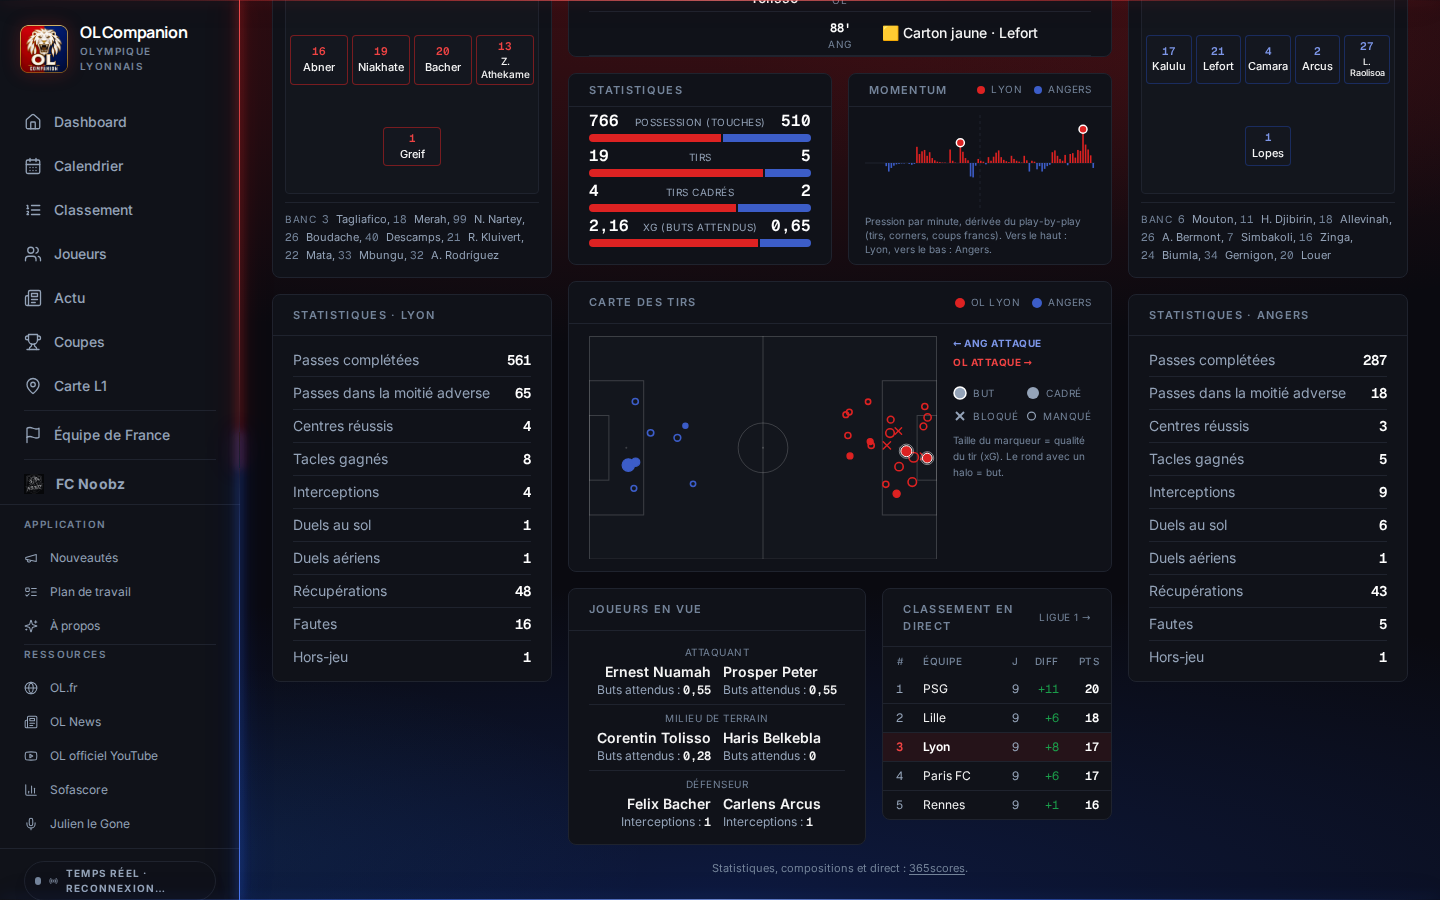
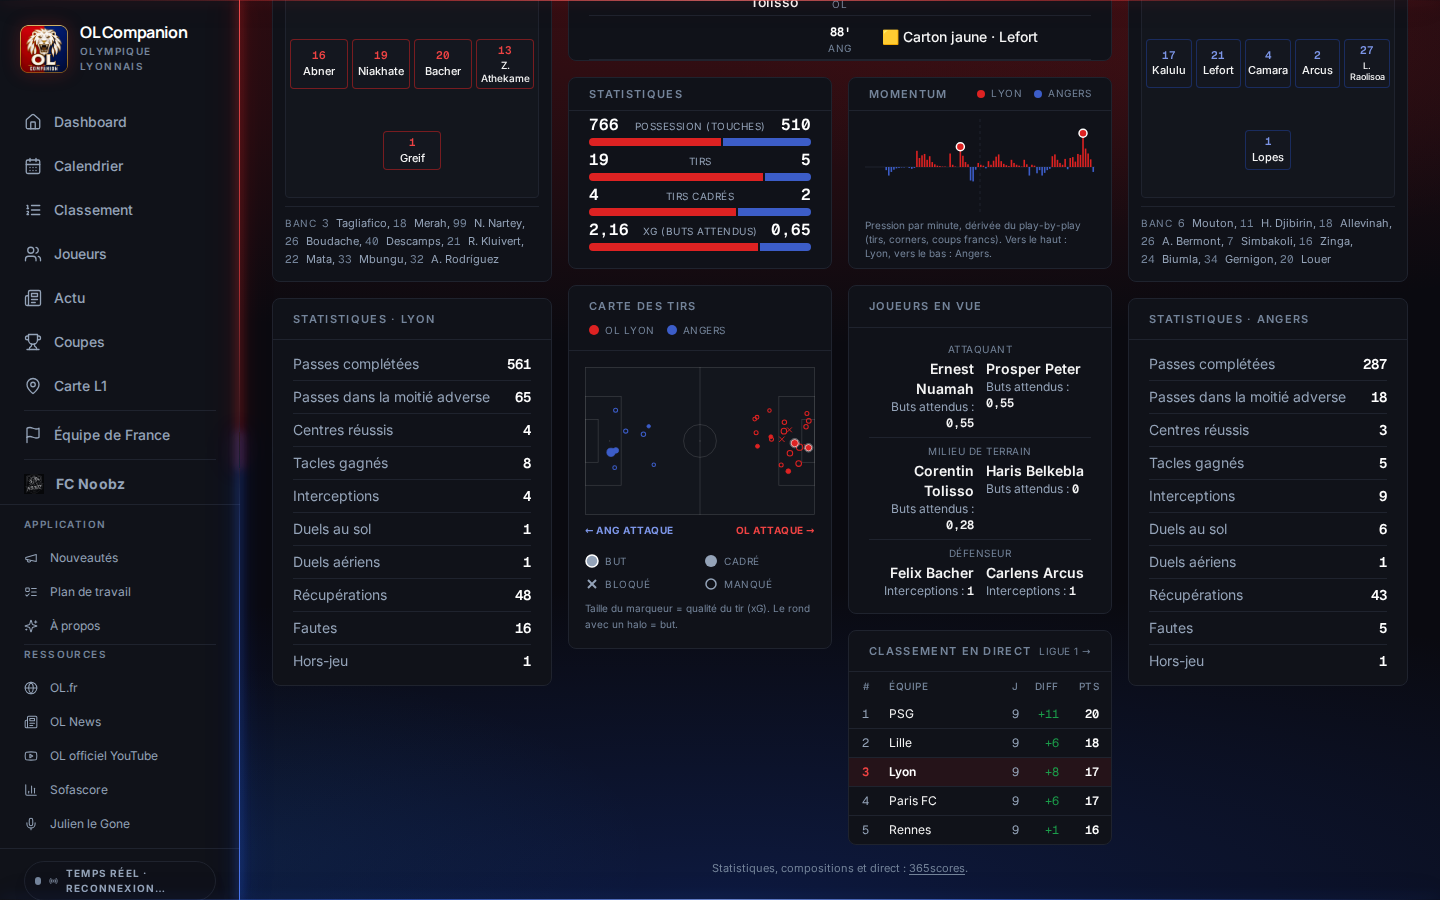
docs(L248): Nouveauté et capture refaites, seule la rotation du terrain reste

diff --git a/docs/nouveautes/2026-11-05-carte-des-tirs-le-terrain-passe-a-l-horizontale.md b/docs/nouveautes/2026-11-05-carte-des-tirs-le-terrain-passe-a-l-horizontale.md
@@ -3,8 +3,8 @@ title: "Carte des tirs : le terrain passe à l'horizontale"
 date: 2026-11-05
 created: 2026-11-05T20:20+01:00
 lots: [L248]
-captures: [{ file: captures/L248-carte-tirs-horizontale-1440.png, alt: "La carte des tirs à l'horizontale, buts à gauche et à droite, avec Joueurs en vue et le classement dessous" }]
+captures: [{ file: captures/L248-carte-tirs-horizontale-1440.png, alt: "La carte des tirs à l'horizontale, buts à gauche et à droite" }]
 # une capture peut dire ce qu'elle montre : captures: [{ file: captures/x.png, alt: "texte alternatif" }]
 # nocapture: raison, quand une capture n'a pas de sens
 ---
-Sur la page d'un match, le terrain de la carte des tirs est maintenant couché, à la même taille, les buts à gauche et à droite. Les flèches suivent : « OL attaque → ». Joueurs en vue et le classement passent sous la carte.
+Sur la page d'un match, le terrain de la carte des tirs passe à l'horizontale, les buts à gauche et à droite. Le sens d'attaque suit : « OL attaque → ».
